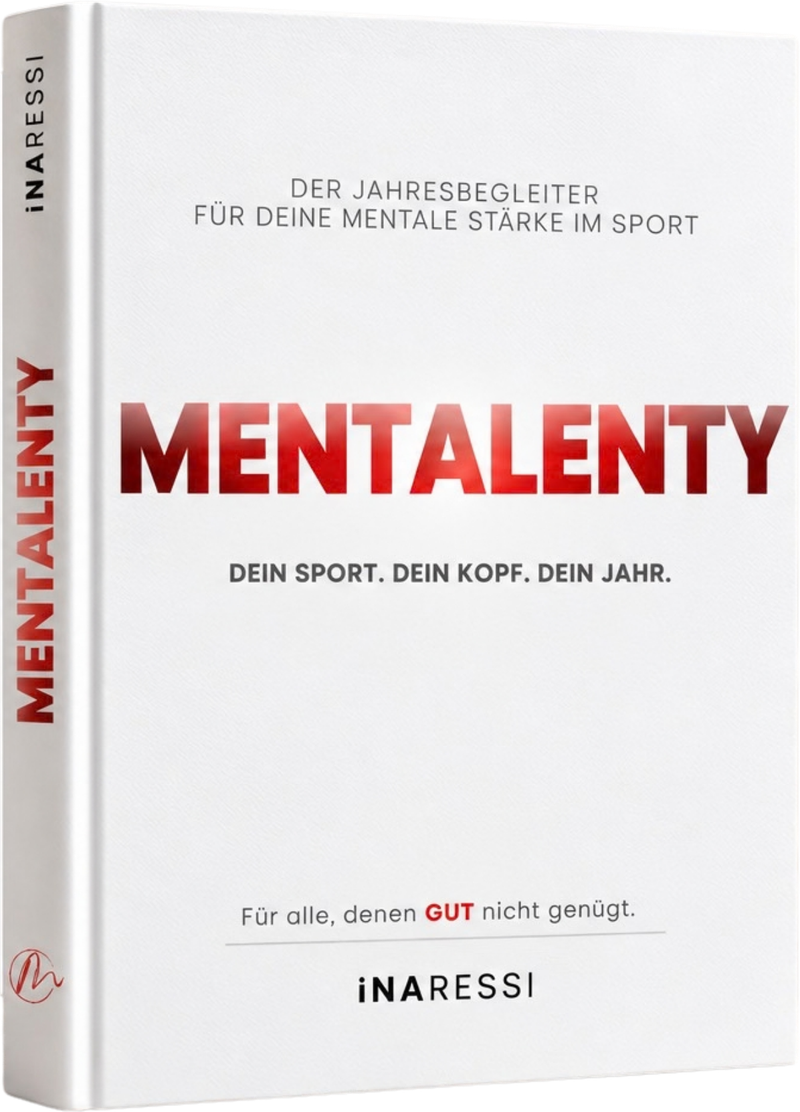
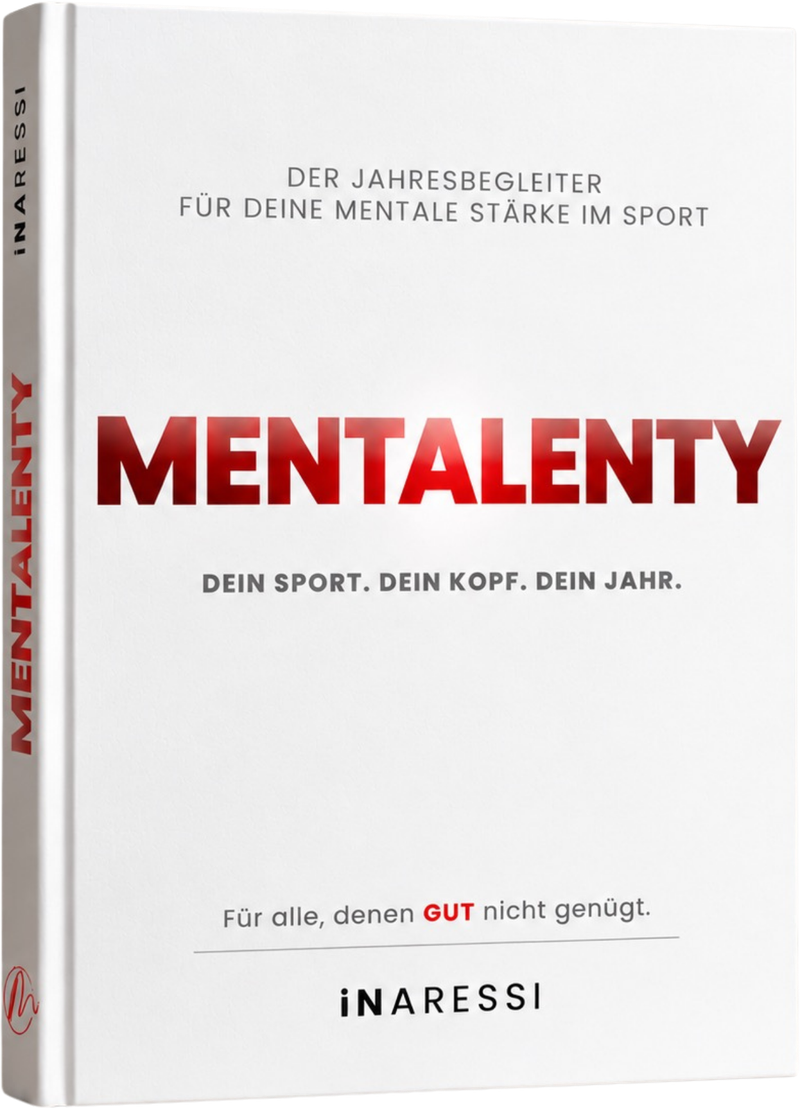
mockup

diff --git a/index.html b/index.html
@@ -8,7 +8,7 @@ Ich begleite dich professionell, kreativ und mit ganzer Leidenschaft – egal ob
 Mutwärts ist mein eigener Verlag – und ein Versprechen: Hier erscheinen Bücher, die nicht belehren, sondern begleiten und bewegen. Ehrlich, mutig und mit einer ordentlichen Portion Aha-Momente.
 </p> </div> <!-- Buch 1 --> <article class="book r d2"> <div class="book-cover-wrap"> <picture> <source srcset="/assets/buch-wir-muessen-reden-mockup.webp" type="image/webp"> <img class="book-cover book-mockup" src="/assets/buch-wir-muessen-reden-mockup.png" alt="Buch: Ich. Mich. Mir. Wir müssen reden"> </picture> </div> <div class="book-body"> <p class="book-kicker">Jahresbegleiter für Frauen</p> <h3 class="book-title">Ich. Mich. Mir.<br><span>Wir müssen reden</span></h3> <p class="book-quote">Manchmal süß. Manchmal <em>bitter.</em> Immer echt.</p> <p class="book-desc">
 Dieses Buch begleitet dich durch Identitätskrisen in Jogginghose, Beziehungsdynamiken inklusive Beipackzettel und den ganz normalen Wahnsinn zwischen Karriere, Liebe und „Kannst du mal kurz …". 52 Wochen voller ehrlicher Denkanstöße, mutiger Fragen und kleiner Rebellionen gegen alles, was dich kleiner macht, als du bist. Keine perfekten Antworten. Kein erhobener Zeigefinger.
-</p> <div class="book-stats"> <div class="book-stat"><span class="book-stat-num">52</span><span class="book-stat-label">Wochen</span></div> <div class="book-stat"><span class="book-stat-num">52</span><span class="book-stat-label">Themen</span></div> <div class="book-stat"><span class="book-stat-num">1</span><span class="book-stat-label">Jahr für dich</span></div> </div> <p class="book-meta">Mutwärts Verlag · ISBN 978-3-9506240-0-7</p> <a href="mailto:ina.ressi@istgleich.at?subject=Bestellung%3A%20Ich.%20Mich.%20Mir.%20Wir%20m%C3%BCssen%20reden&body=Hallo%20Ina%2C%0A%0Aich%20m%C3%B6chte%20das%20Buch%20%E2%80%9EIch.%20Mich.%20Mir.%20Wir%20m%C3%BCssen%20reden%22%20bestellen.%0A%0AAnzahl%3A%201%0ALieferadresse%3A%0A%0A%0ALiebe%20Gr%C3%BC%C3%9Fe%0A" class="buch-cta">Jetzt bestellen →</a> </div> </article> <!-- Buch 2 --> <article class="book book-flip r d2"> <div class="book-cover-wrap"> <picture> <source srcset="/assets/buch-mentalenty-mockup.webp" type="image/webp"> <img class="book-cover book-mockup" src="/assets/buch-mentalenty-mockup.png" alt="Buch: Mentalenty"> </picture> </div> <div class="book-body"> <p class="book-kicker" style="color:var(--black)">Mentaler Jahresbegleiter<br>für Sportlerinnen und Sportler</p> <h3 class="book-title"><span>Mentalenty</span></h3> <p class="book-quote">Talent bringt dich in den Sport. Leidenschaft hält dich drin. <em>Mentalität</em> entscheidet, wie weit du gehst.</p> <p class="book-desc">
+</p> <div class="book-stats"> <div class="book-stat"><span class="book-stat-num">52</span><span class="book-stat-label">Wochen</span></div> <div class="book-stat"><span class="book-stat-num">52</span><span class="book-stat-label">Themen</span></div> <div class="book-stat"><span class="book-stat-num">1</span><span class="book-stat-label">Jahr für dich</span></div> </div> <p class="book-meta">Mutwärts Verlag · ISBN 978-3-9506240-0-7</p> <a href="mailto:ina.ressi@istgleich.at?subject=Bestellung%3A%20Ich.%20Mich.%20Mir.%20Wir%20m%C3%BCssen%20reden&body=Hallo%20Ina%2C%0A%0Aich%20m%C3%B6chte%20das%20Buch%20%E2%80%9EIch.%20Mich.%20Mir.%20Wir%20m%C3%BCssen%20reden%22%20bestellen.%0A%0AAnzahl%3A%201%0ALieferadresse%3A%0A%0A%0ALiebe%20Gr%C3%BC%C3%9Fe%0A" class="buch-cta">Jetzt bestellen →</a> </div> </article> <!-- Buch 2 --> <article class="book book-flip r d2"> <div class="book-cover-wrap"> <picture> <source srcset="/assets/buch-mentalenty-mockup.webp" type="image/webp"> <img class="book-cover book-mockup" src="/assets/buch-mentalenty-mockup.png" alt="Buch: Mentalenty"> </picture> </div> <div class="book-body"> <p class="book-kicker" style="color:var(--black)">Der Jahresbegleiter<br>für deine mentale Stärke im Sport</p> <h3 class="book-title"><span>Mentalenty</span></h3> <p class="book-quote">Talent bringt dich in den Sport. Leidenschaft hält dich drin. <em>Mentalität</em> entscheidet, wie weit du gehst.</p> <p class="book-desc">
 Mentalenty ist dein mentaler Trainingspartner. Ein Jahr lang begleitet es dich durch Druck, Zweifel, Rückschläge und Comebacks. Es stärkt deinen Fokus, fordert dich heraus, wenn Ausreden lauter werden, und erinnert dich daran, warum du begonnen hast. Es geht nicht darum, besser zu sein als die anderen. Es geht darum, jeden Tag stärker zu werden als die Person, die du gestern warst.
 </p> <p class="book-claim">Dein Sport. Dein Kopf. Dein Jahr.</p> <p class="book-meta">Mutwärts Verlag · ISBN 978-3-9506240-1-4</p> <a href="mailto:ina.ressi@istgleich.at?subject=Bestellung%3A%20Mentalenty&body=Hallo%20Ina%2C%0A%0Aich%20m%C3%B6chte%20das%20Buch%20%E2%80%9EMentalenty%22%20bestellen.%0A%0AAnzahl%3A%201%0ALieferadresse%3A%0A%0A%0ALiebe%20Gr%C3%BC%C3%9Fe%0A" class="buch-cta">Jetzt bestellen →</a> </div> </article> </div> <div class="sw-sep sw-walk-right" id="swSep4"> <div class="sw-sep-fig"><img src="/assets/frau-icon.png" alt="" aria-hidden="true"></div> </div> </section>  <section id="contact"> <div class="wrap"> <div class="contact-grid"> <div> <p class="label r">Kontakt</p> <h2 class="big-title r d1">Lass uns<br><span style="color:var(--red)">starten.</span></h2> <p class="contact-lead r d2">
 Du hast Fragen oder möchtest einen ersten Schritt wagen? Ich freue mich auf deine Nachricht – gemeinsam finden wir heraus, wie ich dich am besten unterstützen kann.
